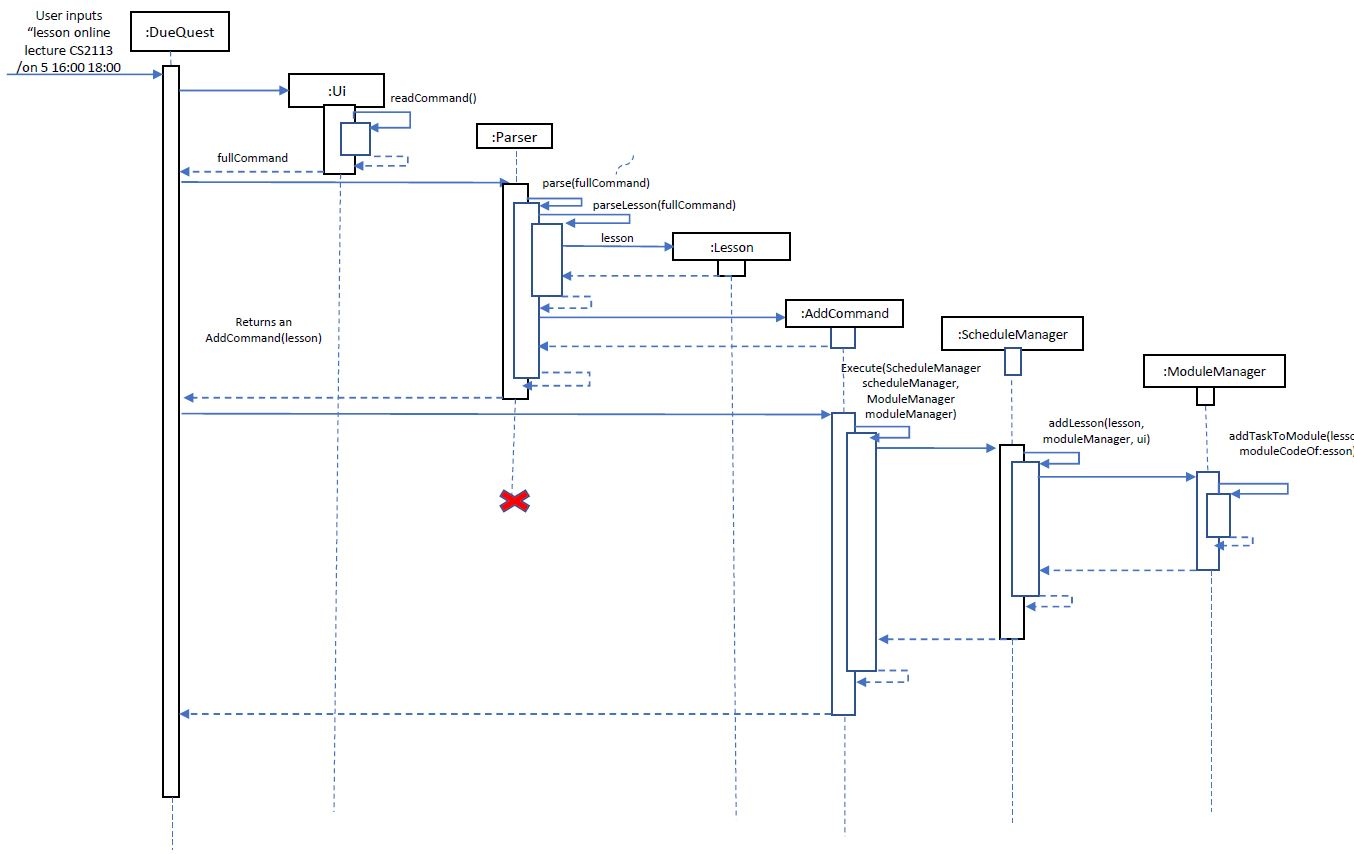
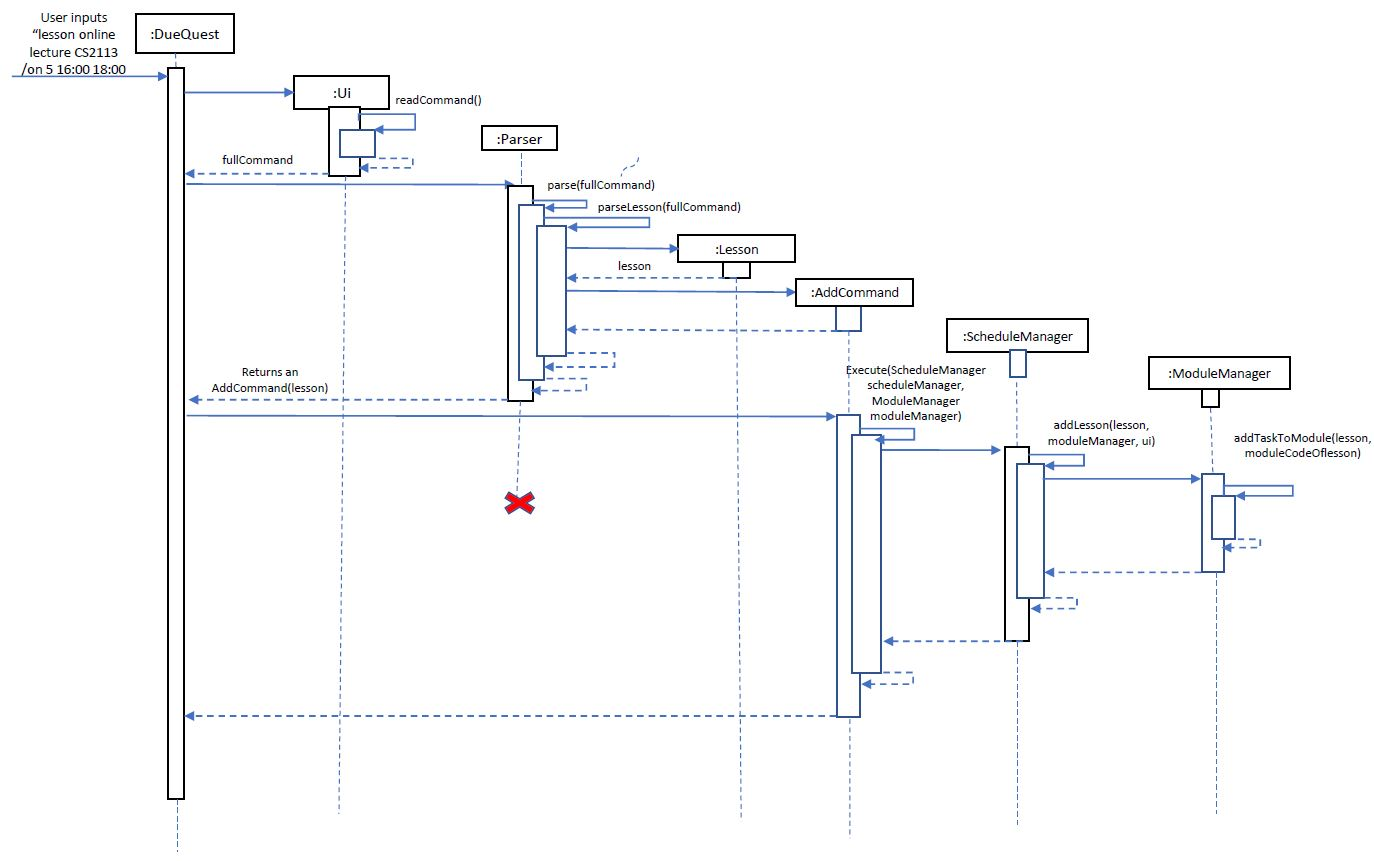
updated docs

diff --git a/docs/DeveloperGuide.md b/docs/DeveloperGuide.md
@@ -92,6 +92,8 @@ showing how the `Parser` classes and the `Command` classes interact. Unless the 
 an `ExitCommand` or `HelpCommand` , the `Command` will be executed to perform an action to
 either the `ScheduleManager` or `ModuleManager` or both.
 
+![](Images/3.3Command.JPG)
+
 | Class | Function |
 |--------|----------|
 | `Command` | An Abstract class which is the parent class of all of the commands below. The main method in this class is the `execute()` method, which handles the different executions required depending on the input by the user. |
@@ -104,8 +106,6 @@ either the `ScheduleManager` or `ModuleManager` or both.
 | `HelpCommand` | A child class of `Command` which helps to provides the list of inputs for the user to know what to type in to use any of the features he wants. |
 | `ExitCommand` | A child class of `Command` which helps to exit the app. |
 
-![](Images/3.3Command.JPG)
-
 ### Managers
 The application consists of two managers, the `ScheduleManager` and `ModuleManager`. The
 `ScheduleManager` will handle the storing of `Task` in each day. The `ModuleManager` will
@@ -116,8 +116,8 @@ methods and properties of the `ScheduleManager` and `ModuleManager` classes.
 
 | Class | Function |
 |--------|----------|
-| `ScheduleManager` | -- |
-| `ModuleManager` | -- |
+| `ScheduleManager` | The `ScheduleManager` class  helps to store the `Task`s in each day. |
+| `ModuleManager` | `ModuleManager` class helps to store the `Task`s of each module. |
 
 Some Design Considerations on how to store the `Task` in the `ScheduleManager`:
 - Use of a `TreeMap` to store the date as keys and `ArrayList` as values.
@@ -158,6 +158,13 @@ that it belongs to. Below is a sequence diagram which shows how adding of a
 `Lesson` works. Adding of a Event or a Deadline is also in a similar fashion.
 
 ![](Images/4.1Add.JPG)
+
+1. The user inputs `lesson online lecutre CS2113 /on 5 16:00 18:00`, which will be by read by the `Ui` by it's `readCommand()` method, and returned as a String variable called `fullCommand`.
+1. A `Parser` is then used to obtain the logic behind the user's input. The `Parser` will first use it's `parse(fullCommand)` method, which will then call the `parseLesson(fullCommand)` method after finding out that the user wants to add a lesson since that was the first word in the user input for this case.
+1. The `parseLesson(fullCommand)` method will return a `Lesson lesson` object. It will also call a `AddCommand`, which will contain the `Lesson lesson` object, and the `AddCommand` will be returned to the `DueQuest` main class.
+1. Next, the `AddCommand` will be executed to handle the logic of adding a lesson with the details as stated by the user's input. 
+1. Finally, the `execute(ScheduleManager scheduleManager, ModuleManager moduleManager)` will first call the `ScheduleManager`, which calls its own `addLesson(lesson, moduleManager, ui)` method to add the lesson to itself. It also calls the `ModuleManager` object, and the `ModuleManager` will call its own `addTaskToModule(lesson, moduleCodeOfLesson)` to add the lesson to the `Module` in it which has the module code stated by the user.
+ 
 
 ### Display Feature
 
